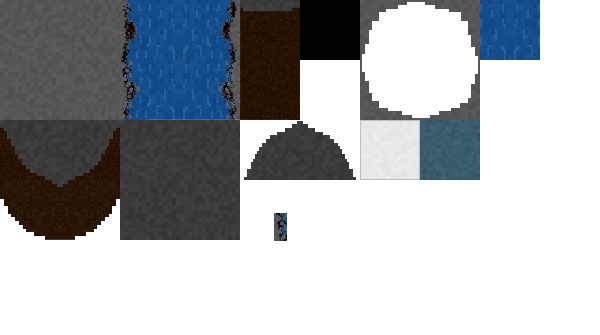
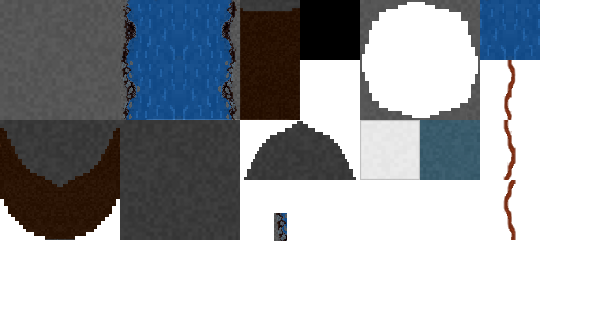
added eaglecrest well

Changed region(s): [[0.84, 0.1791, 0.87, 0.7164]]

diff --git a/gamedata/areadata.js b/gamedata/areadata.js
@@ -6204,7 +6204,7 @@ onPlayerTouch: function () {
 				width: 400, height: 400,
 				collisionType: "feet",
 				onPlayerTouch: function () {
-					
+
 				}
 			},
 			// right stairs
@@ -9244,7 +9244,18 @@ Last I saw him, he was visiting the <b>Eaglecrest Plains</b> to the <b>south</b>
 	                    },
                 ],
                 chat: {
-                    questProgress: "Yous looks like yous never seen a cat fish before.",
+					questProgress: [
+						{
+							text: "Yous looks likes yous nevers seens a cat fish befores.",
+							condition: function()
+							{
+								return Player.quests.questProgress.troubledWaters2Progress > 5;
+							}
+						},
+						{
+							text: "Miau, miau miau miau."
+						},
+					],
                     notUnlockedRoles: "Miau, miau miau miau.",
                     //questComplete: "Thank yah for the help, I guess I'll see yah around.",
                     //inventoryFull: "Yah bags are full, come back when yah got room.",
@@ -9915,6 +9926,17 @@ image: 'steppingStone', name: 'Stepping Stone', z: -1, walkable: true,},
 				y: 2816,
 				name: "Well",
 				image: "well",
+				onInteract: function () {
+				    if (Player.quests.questProgress.troubledWaters3Progress > 1) {
+						Game.hero.channel(function () {
+				            Game.loadArea("eaglecrestWell", {x: 750, y: 170});
+				        }, [], 1500, "Entering well");
+
+				    }
+				    else {
+				        Dom.chat.npcBanner(false, "<i>Looks like a pretty deep well...</i>", true);
+				    }
+				}
 			},
 			{
 				x: 257,
@@ -9978,6 +10000,9 @@ image: 'steppingStone', name: 'Stepping Stone', z: -1, walkable: true,},
 			},
 		],
 	},
+
+
+
 
 	//
 	// the city again ! ! !
@@ -11131,6 +11156,9 @@ areaTeleports: [
         ]
 
 	},
+
+
+
     pawPeaks: {
         id: 23,
 
@@ -11810,6 +11838,106 @@ things: [
                 },}
 */
           ],
+},
+
+//Eaglecrest well for fishing tour
+
+eaglecrestWell: {
+	id: 24,
+
+	data: {
+		name: "Eaglecrest Well",
+		displayOnEnter: true,
+	},
+
+	indoors: true,
+
+	tagGameAllowed: true,
+
+	song_day: "assets/music/Eaglecrest.mp3",
+	song_night: "assets/music/Eaglecrest.mp3",
+
+	checkpoint: false,
+
+	lootArea: "eaglecrestWell",
+
+	mapData: {
+		cols: 25,
+		rows: 25,
+		tsize: 60,
+		tilesPerRow: 10,
+		solidTiles: [23, 24, 33, 34],
+		pathTiles: [],
+		waterTiles: [28],
+		layers: [
+			[23, 23, 23, 23, 23, 23, 23, 23, 23, 23, 23, 23, 23, 23, 23, 23, 23, 23, 23, 23, 23, 23, 23, 23, 23,
+            23, 23, 23, 23, 23, 23, 23, 23, 23, 23, 23, 23, 23, 23, 23, 23, 23, 23, 23, 23, 23, 23, 23, 23, 23,
+            23, 23, 23, 23, 23, 23, 23, 23, 23, 23, 23, 23, 23, 23, 23, 23, 23, 23, 23, 23, 23, 23, 23, 23, 23,
+            1, 12, 2, 1, 12, 2, 12, 12, 2, 2, 2, 1, 1, 1, 1, 11, 11, 2, 1, 2, 1, 1, 1, 1, 1,
+            1, 1, 11, 12, 1, 1, 2, 11, 11, 1, 12, 1, 11, 11, 1, 11, 2, 11, 1, 2, 11, 1, 11, 1, 1,
+            1, 1, 1, 2, 1, 12, 1, 11, 1, 2, 11, 1, 1, 1, 1, 1, 1, 11, 11, 1, 1, 1, 1, 1, 1,
+            1, 1, 12, 12, 2, 2, 1, 2, 1, 1, 1, 28, 28, 28, 28, 1, 1, 1, 1, 12, 1, 2, 12, 1, 1,
+            1, 2, 1, 1, 1, 2, 1, 1, 11, 28, 28, 28, 28, 28, 28, 28, 28, 28, 1, 1, 1, 1, 12, 1, 1,
+            1, 1, 2, 1, 1, 2, 1, 11, 28, 28, 28, 28, 28, 28, 28, 28, 28, 28, 28, 1, 1, 1, 1, 1, 1,
+            1, 1, 1, 1, 1, 1, 1, 28, 28, 28, 28, 28, 28, 28, 28, 28, 28, 28, 28, 28, 1, 11, 1, 1, 1,
+            1, 12, 1, 11, 1, 1, 28, 28, 28, 28, 28, 28, 28, 28, 28, 28, 28, 28, 28, 28, 1, 11, 11, 12, 1,
+            1, 1, 1, 1, 1, 28, 28, 28, 28, 28, 28, 28, 28, 28, 28, 28, 28, 28, 28, 28, 28, 1, 11, 11, 1,
+            1, 1, 1, 1, 1, 28, 28, 28, 28, 28, 28, 28, 28, 28, 28, 28, 28, 28, 28, 28, 28, 1, 1, 11, 1,
+            1, 1, 11, 1, 28, 28, 28, 28, 28, 28, 28, 28, 28, 28, 28, 28, 28, 28, 28, 28, 28, 28, 1, 11, 1,
+            1, 1, 1, 12, 28, 28, 28, 28, 28, 28, 28, 28, 28, 28, 28, 28, 28, 28, 28, 28, 28, 28, 1, 1, 1,
+            1, 1, 1, 1, 28, 28, 28, 28, 28, 28, 28, 28, 28, 28, 28, 28, 28, 28, 28, 28, 28, 28, 1, 1, 1,
+            1, 1, 1, 12, 28, 28, 28, 28, 28, 28, 28, 28, 28, 28, 28, 28, 28, 28, 28, 28, 28, 28, 1, 1, 1,
+            1, 2, 1, 11, 11, 28, 28, 28, 28, 28, 28, 28, 28, 28, 28, 28, 28, 28, 28, 28, 28, 28, 1, 1, 1,
+            1, 2, 12, 12, 1, 1, 28, 28, 28, 28, 28, 28, 28, 28, 28, 28, 28, 28, 28, 28, 28, 28, 1, 1, 1,
+            1, 1, 12, 1, 1, 1, 1, 1, 28, 28, 28, 28, 28, 28, 28, 28, 28, 28, 28, 28, 28, 1, 1, 12, 1,
+            1, 1, 11, 1, 2, 1, 1, 1, 11, 28, 28, 28, 28, 28, 28, 28, 28, 28, 28, 28, 1, 1, 2, 11, 1,
+            1, 1, 12, 1, 12, 12, 1, 1, 1, 11, 1, 1, 28, 28, 28, 28, 1, 1, 1, 1, 1, 11, 12, 2, 1,
+            1, 1, 1, 12, 1, 1, 12, 1, 1, 1, 1, 1, 1, 1, 1, 1, 1, 1, 2, 1, 2, 2, 12, 2, 1,
+            1, 1, 1, 1, 1, 1, 12, 1, 1, 1, 1, 1, 1, 2, 12, 1, 11, 11, 1, 2, 11, 1, 1, 1, 1,
+            1, 1, 1, 1, 1, 1, 1, 1, 1, 1, 1, 1, 1, 1, 1, 1, 1, 1, 1, 1, 1, 1, 1, 1, 1],
+
+			[0, 0, 0, 0, 0, 0, 0, 0, 0, 0, 0, 0, 19, 0, 0, 0, 0, 0, 0, 0, 0, 0, 0, 0, 0,
+            0, 0, 0, 0, 0, 0, 0, 0, 0, 0, 0, 0, 19, 0, 0, 0, 0, 0, 0, 0, 0, 0, 0, 0, 0,
+            0, 0, 0, 0, 0, 0, 0, 0, 0, 0, 0, 0, 19, 0, 0, 0, 0, 0, 0, 0, 0, 0, 0, 0, 0,
+            0, 0, 0, 0, 0, 0, 0, 0, 0, 0, 0, 0, 0, 0, 0, 0, 0, 0, 0, 0, 0, 0, 0, 0, 0,
+            0, 0, 0, 0, 0, 0, 0, 0, 0, 0, 0, 0, 0, 0, 0, 0, 0, 0, 0, 0, 0, 0, 0, 0, 0,
+            0, 0, 0, 0, 0, 0, 0, 0, 0, 0, 0, 0, 0, 0, 0, 0, 0, 0, 0, 0, 0, 0, 0, 0, 0,
+            0, 0, 0, 0, 0, 0, 0, 0, 0, 0, 0, 0, 0, 0, 0, 0, 0, 0, 0, 0, 0, 0, 0, 0, 0,
+            0, 0, 0, 0, 0, 0, 0, 0, 0, 0, 0, 0, 0, 0, 0, 0, 0, 0, 0, 0, 0, 0, 0, 0, 0,
+            0, 0, 0, 0, 0, 0, 0, 0, 0, 0, 0, 0, 0, 0, 0, 0, 0, 0, 0, 0, 0, 0, 0, 0, 0,
+            0, 0, 0, 0, 0, 0, 0, 0, 0, 0, 0, 0, 0, 0, 0, 0, 0, 0, 0, 0, 0, 0, 0, 0, 0,
+            0, 0, 0, 0, 0, 0, 0, 0, 0, 0, 0, 0, 0, 0, 0, 0, 0, 0, 0, 0, 0, 0, 0, 0, 0,
+            0, 0, 0, 0, 0, 0, 0, 0, 0, 0, 0, 0, 0, 0, 0, 0, 0, 0, 0, 0, 0, 0, 0, 0, 0,
+            0, 0, 0, 0, 0, 0, 0, 0, 0, 0, 0, 0, 0, 0, 0, 0, 0, 0, 0, 0, 0, 0, 0, 0, 0,
+            0, 0, 0, 0, 0, 0, 0, 0, 0, 0, 0, 0, 0, 0, 0, 0, 0, 0, 0, 0, 0, 0, 0, 0, 0,
+            0, 0, 0, 0, 0, 0, 0, 0, 0, 0, 0, 0, 0, 0, 0, 0, 0, 0, 0, 0, 0, 0, 0, 0, 0,
+            0, 0, 0, 0, 0, 0, 0, 0, 0, 0, 0, 0, 0, 0, 0, 0, 0, 0, 0, 0, 0, 0, 0, 0, 0,
+            0, 0, 0, 0, 0, 0, 0, 0, 0, 0, 0, 0, 0, 0, 0, 0, 0, 0, 0, 0, 0, 0, 0, 0, 0,
+            0, 0, 0, 0, 0, 0, 0, 0, 0, 0, 0, 0, 0, 0, 0, 0, 0, 0, 0, 0, 0, 0, 0, 0, 0,
+            0, 0, 0, 0, 0, 0, 0, 0, 0, 0, 0, 0, 0, 0, 0, 0, 0, 0, 0, 0, 0, 0, 0, 0, 0,
+            0, 0, 0, 0, 0, 0, 0, 0, 0, 0, 0, 0, 0, 0, 0, 0, 0, 0, 0, 0, 0, 0, 0, 0, 0,
+            0, 0, 0, 0, 0, 0, 0, 0, 0, 0, 0, 0, 0, 0, 0, 0, 0, 0, 0, 0, 0, 0, 0, 0, 0,
+            0, 0, 0, 0, 0, 0, 0, 0, 0, 0, 0, 0, 0, 0, 0, 0, 0, 0, 0, 0, 0, 0, 0, 0, 0,
+            0, 0, 0, 0, 0, 0, 0, 0, 0, 0, 0, 0, 0, 0, 0, 0, 0, 0, 0, 0, 0, 0, 0, 0, 0,
+            0, 0, 0, 0, 0, 0, 0, 0, 0, 0, 0, 0, 0, 0, 0, 0, 0, 0, 0, 0, 0, 0, 0, 0, 0,
+            0, 0, 0, 0, 0, 0, 0, 0, 0, 0, 0, 0, 0, 0, 0, 0, 0, 0, 0, 0, 0, 0, 0, 0, 0],
+		],
+	},
+
+	images: {
+		tiles: {normal: "assets/tilemap/caves.png"}
+	},
+
+	callAreaJoinOnInit: true,
+	onAreaJoin: function () {
+
+	},
+
+	areaTeleports: [
+		{
+
+		},
+	],
 },
 
 
